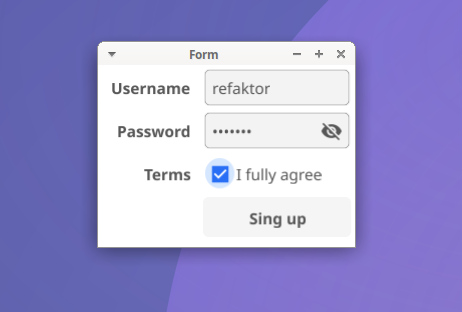
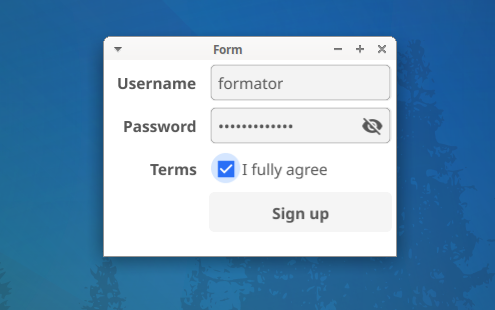
adding to cookbook about fyne

diff --git a/content/cookbook/rye-fyne/examples.md b/content/cookbook/rye-fyne/examples.md
@@ -22,6 +22,7 @@ mygroup: true
 
 What's new: `app` `window` `label` `set-content` `show-and-run`
 
+We'll start this with just a Hello world app. We see the basic building blocks (functions / constructors) of every Fyne app here, an `app`, a `window` and the first widget `label` and two functions `set-content` and `show-and-run`.
 
 ![Hello fyne World](../hello_fyne_world_s.png)
 
@@ -34,18 +35,45 @@ do\in fyne {
 }
 ```
 
-## Button
+## First layout
 
-What's new: `button` `v-box` `set-text` `layout-spacer` `resize`
+What's new: `h-box` `v-box`
+
+Fyne uses various layout components that you can combine to declaratively lay out the widgets. The two basic ones age horizontal and vertical boxes `h-box` and `v-box`.
+
+![layouts](../layouts.png)
+
+```lisp
+do\in fyne { 
+	
+	win: app .window "Layouts"
+	win .set-content v-box [ 
+		h-box [
+			label "Don't look RIGHT"
+			label "Don't look LEFT"
+		]
+		label "Don't look UP"
+	]
+	win .show-and-run	
+}
+```
+
+
+## Button and spacer
+
+What's new: `button` `set-text` `layout-spacer` `resize`
+
+A button comes with a callback function that gets called when the button is clicked. `does` is a Rye function that creates function with no arguments. 
+
+Since we want a button in this case to be at the bottom of our window, when we resize it, we use a `layout-spacer` which takes that extra space that is available, in this case vertically. 
 
 ![Button](../button.png)
-
 
 ```lisp
 do\in fyne { 
 
 	lab: label "I'm Waiting ..."
-	btn: button "Click here" does { lab .set-text "Finally :)" }
+	btn: button "Click here" does { lab .set-text "Finally ..." }
 	box: v-box [ lab layout-spacer btn ]
 	
 	with app .window "Button" {
@@ -58,9 +86,11 @@ do\in fyne {
 
 ## Feedback form
 
-What's new: `multiline` `get-text` `show-pop-up`
+What's new: `multi-line!` `get-text` `show-pop-up`
 
-![Feedback form](../feedback_form.png)
+Let's now combine these, change entry to multi-line and add a select field to make our first potentially practical applet.
+
+![Feedback form](../feedback.png)
 
 ```lisp
 do\in fyne {
@@ -69,7 +99,9 @@ do\in fyne {
 	
 	cont: v-box [
 		label "Send us feedback:"
-		entry .multi-line! 1 :ent
+		entry .multi-line! true :ent
+		select [ "Happy" "Normal" "Confused" ] fn { v } { }
+		|place-holder! "How do you feel ..."
 		button "Send" does {
 			msg: ent .text?
 			show-pop-up label "Sending: " + msg  win .canvas
@@ -80,11 +112,18 @@ do\in fyne {
 }
 ```
 
-## Clock
+&nbsp;
+
+*by Rye convention a `noun!` means set-noun, like `noun?` means get-noun. This is used in Fyne bindings to name functions that
+set and get Fynes structs' properties.*
+
+## Live clock
 
 What's new: `go (goroutines)`
 
-![Date & Time](../date_time.png)
+Rye inherits the awesome goroutines from Go and Fyne seems to works very nicely with goroutines. So doing live updates to the GUI (main thread) from a paralel "process", like a goroutine, is just as simple as it could be.
+
+![Date & Time](../clock.gif)
 
 ```lisp
 do\in fyne { 
@@ -106,7 +145,11 @@ do\in fyne {
 
 What's new: `canvas-image-from-file` `fill-mode!`
 
-![My home](../my_home2.png)
+In fact, goroutines get handy in a lot of cases. Imagine we are making an app that display basic live information about our home. Let's throw in an example of using an image also. 
+
+This app simulates reading outside temperature from a sensor that updates every 300 milliseconds.
+
+![My home](../home_app.gif)
 
 ```lisp
 Sensors: context {
@@ -123,7 +166,7 @@ do\par fyne {
 	img .fill-mode! canvas-image-fill-original
 	
 	go fn { } {
-		sleep 3 .seconds  ; sensor wake up ...
+		sleep 3 .seconds  ; waiting for sensors to wake up
 		forever {
 			Sensors/get-temperature .to-string + " °C"
 			|concat* "Outside temp: "
@@ -144,6 +187,8 @@ do\par fyne {
 
 What's new: `form` `password-entry` `check` `disable` `enable`
 
+Back to more static world. Fyne has this nice concept of `form`, which is very handy. You can fill the right side of the form with any widget.
+
 ![Form](../form.png)
 
 
@@ -152,7 +197,7 @@ do\in fyne {
 	
 	win: app .window "Form"
 
-	btn: disable button "Sing up" does {
+	btn: disable button "Sign up" does {
 		show-pop-up label "You rock!"  win .canvas
 	} 
 
@@ -222,6 +267,47 @@ do\par fyne {
 }
 ```
 
+## Percentages clock
+
+What's new: `progress-bar` 
+
+![Percentages clock](../percentage_clock.gif)
+
+```lisp
+do\in fyne {
+
+	app .window "Percentage Clock" :win
+	
+	cont: v-box [
+		label "Year:" :ly
+		progress-bar :py
+		label "Today's hours:"
+		progress-bar :ph
+		label "Minutes:"
+		progress-bar :pm
+		label "Seconds:"
+		progress-bar :ps
+	]
+
+	leap-year: fn { y } { all { y .multiple-of 4  not y .multiple-of 100  not y .multiple-of 400 } }
+	days-in: fn { y } { .leap-year .either { 366 } { 365 } }
+	
+	go fn\par { } current {
+		forever {
+			now
+			|pass { .year? ::y |concat* "Year " |set-text* ly }
+			|pass { .year-day? / days-in y  |set-value* py }
+			|pass { .hour?     / 24 |set-value* ph }
+			|pass { .minute?   / 60 |set-value* pm }
+			|pass { .second?   / 60 |set-value* ps }
+			sleep 500
+		}
+	}
+	
+	win |resize size 300.0 200.0 |set-content cont |show-and-run
+}
+```
+
 ## CSV file in a table
 
 What's new: `header?` `show-header-row!` `update-header!`
@@ -239,8 +325,7 @@ do\par fyne {
 	does { label "......................." }
 	fn { i o } {
 		row: i .row? , col: i .col?
-		team -> row -> col
-		|set-text* o
+		team -> row -> col |set-text* o
 	}
 	|show-header-row! true
 	|update-header! fn { i o } {

diff --git a/content/cookbook/rye-fyne/live_dev.md b/content/cookbook/rye-fyne/live_dev.md
@@ -1,0 +1,54 @@
+---
+title: "Live development"
+date: 2024-09-13T19:30:08+10:00
+draft: false
+group: true
+weight: 150
+summary: "You can explore the wast Fyne library and combine / see and use various widgets and layout directly from Rye console (REPL)"
+mygroup: true
+---
+
+*work in progress*
+
+Fyne has a big api. It exposes multiple hundred functions / structs / properties. One benefit of Rye is that we can use Rye console itself to
+explore the API. We can also start a Fyne window and then use live console (REPL) to change it, experiment with widgets in this live setting.
+
+
+## Exploring Fyne binding
+
+Keywords: `cc` `lc` `lcp` `lc\` `lcp\`
+
+Fyne binding lives in it's own context (fyne). That's why our code generally resides in `do\in fyne` or better `do\par fyne` in our scripts.
+
+Rye has some console specific functions that are similar to how we traverse and explore directories in general. We wouldn't normally use these in scrips,
+but they are very usefull in console.
+
+```lisp
+x> lc            ; list current context, empty if we just started a console
+x> lcp           ; list parent context, where all builting functions and subcontexts are
+x> cc fyne       ; change context to fyne
+x> lc            ; lists all fyne functions
+x> lc\ "entry"   ; lists all fyne functions that match "entry"
+```
+
+&nbsp;
+
+
+*`lc*` functions don't list the generic builtins that are tied to specific resources, like windows, widgets. We will add function for that too.*
+
+*NOTE: '\' at the end of the word is a convention for "more". In general \ is used to denote variations of functions, like `load`,  `load\csv`, etc.*
+
+## Develop from REPL
+
+Keywords: `Rye console` `live.rye`
+
+To put it simply, run examples/live.rye. You will get a GUI window with one label and a Rye console where you have access to the live objects defined in live.rye like 
+win, app, lab. You can then construct new widgets, layouts, put widgets in layouts in console and use `win .set-content ...` to change the window.
+
+```lisp
+x> lc           ; list currently defined words
+x> lab .set-text "Hello from console"
+x> box: v-box { entry button "Send" does { print "test" } }
+x> win .set-content box
+```
+

diff --git a/content/cookbook/rye-fyne/mobile.md b/content/cookbook/rye-fyne/mobile.md
@@ -1,0 +1,15 @@
+---
+title: "Mobile apps"
+date: 2024-08-13T19:30:08+10:00
+draft: false
+group: true
+weight: 150
+summary: "We document and explain how to make Rye-fyne app for mobile"
+mygroup: true
+---
+
+## Status
+
+We had a minimal Rye-fyne app already running on Android, there is support for embedding files in Rye (since you have to embedd rye script into executable), but the procedures weren't documented.
+
+We will get back to this and document it all this time.

diff --git a/content/cookbook/rye-fyne/_index.md b/content/cookbook/rye-fyne/_index.md
@@ -4,3 +4,9 @@ weight: 300
 ---
 
 Rye integrates with pure Go GUI library Fyne. Fyne is lightweight and works on Mac, Linux, Windows and mobile platforms.
+
+Fyne bindings are automatically generated by a tool called ryegen and so follow the Fyne API.
+
+Links:
+* https://github.com/refaktor/rye-fyne
+* https://github.com/refaktor/ryegen
